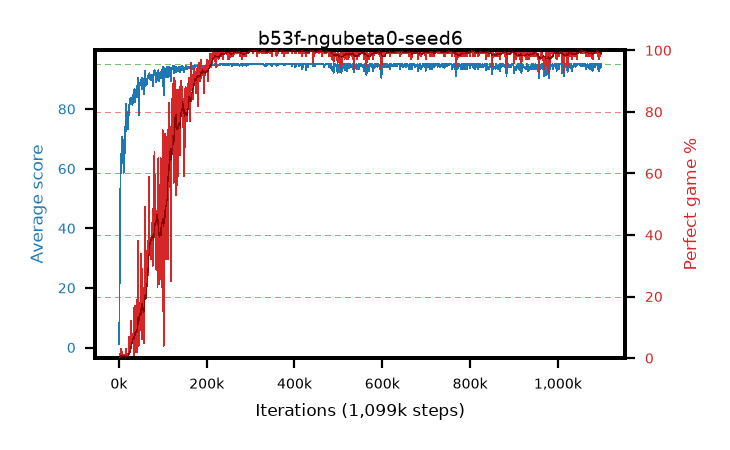
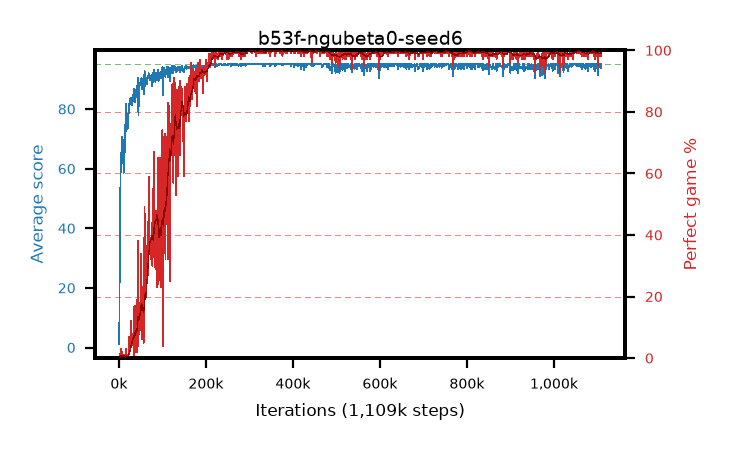
live pictures of 4 arm(s)

diff --git a/results/b53h-ngubeta0-seed8/b53h-ngubeta0-seed8.md b/results/b53h-ngubeta0-seed8/b53h-ngubeta0-seed8.md
@@ -1,6 +1,6 @@
 # b53h-ngubeta0-seed8
 
-step **1,119,000** · 1119 evals · trailing **94.46** · peak **94.92** @356,000 · sef **91.6** · best30 **99.7** @539,000
+step **1,129,000** · 1129 evals · trailing **94.57** · peak **94.92** @356,000 · sef **91.7** · best30 **99.7** @539,000
 
 ## Config
 
@@ -80,15 +80,15 @@ step **1,119,000** · 1119 evals · trailing **94.46** · peak **94.92** @356,00
 | 2000 | 50.19 | 26.7 | 2.0 | 95.0 | 51.185 | 6.0 | 0.4 |
 | 3000 | 57.71 | 37.03 | 27.0 | 95.0 | 54.481 | 2.0 | 0.4 |
 | ... | ... | ... | ... | ... | ... | ... | ... |
-| 1108000 | 94.22 | 94.13 | 17.0 | 95.0 | 191.969 | 99.0 | 0.4 |
-| 1109000 | 95.0 | 94.15 | 95.0 | 95.0 | 193.785 | 100.0 | 0.4 |
-| 1110000 | 95.0 | 94.18 | 95.0 | 95.0 | 193.781 | 100.0 | 0.4 |
-| 1111000 | 94.25 | 94.24 | 20.0 | 95.0 | 191.987 | 99.0 | 0.4 |
-| 1112000 | 95.0 | 94.26 | 95.0 | 95.0 | 193.778 | 100.0 | 0.4 |
-| 1113000 | 95.0 | 94.4 | 95.0 | 95.0 | 193.77 | 100.0 | 0.4 |
-| 1114000 | 95.0 | 94.4 | 95.0 | 95.0 | 193.786 | 100.0 | 0.4 |
-| 1115000 | 94.66 | 94.43 | 77.0 | 95.0 | 191.361 | 98.0 | 0.4 |
-| 1116000 | 95.0 | 94.43 | 95.0 | 95.0 | 193.779 | 100.0 | 0.4 |
-| 1117000 | 94.08 | 94.42 | 20.0 | 95.0 | 189.777 | 97.0 | 0.4 |
 | 1118000 | 95.0 | 94.47 | 95.0 | 95.0 | 193.774 | 100.0 | 0.4 |
 | 1119000 | 94.14 | 94.46 | 9.0 | 95.0 | 191.881 | 99.0 | 0.4 |
+| 1120000 | 92.76 | 94.39 | 17.0 | 95.0 | 188.435 | 97.0 | 0.4 |
+| 1121000 | 95.0 | 94.41 | 95.0 | 95.0 | 193.782 | 100.0 | 0.4 |
+| 1122000 | 94.23 | 94.41 | 18.0 | 95.0 | 191.957 | 99.0 | 0.4 |
+| 1123000 | 94.19 | 94.41 | 14.0 | 95.0 | 191.933 | 99.0 | 0.4 |
+| 1124000 | 95.0 | 94.46 | 95.0 | 95.0 | 193.78 | 100.0 | 0.4 |
+| 1125000 | 93.43 | 94.46 | 13.0 | 95.0 | 190.141 | 98.0 | 0.4 |
+| 1126000 | 95.0 | 94.49 | 95.0 | 95.0 | 193.777 | 100.0 | 0.4 |
+| 1127000 | 94.14 | 94.48 | 22.0 | 95.0 | 190.843 | 98.0 | 0.4 |
+| 1128000 | 94.95 | 94.52 | 90.0 | 95.0 | 192.694 | 99.0 | 0.4 |
+| 1129000 | 95.0 | 94.57 | 95.0 | 95.0 | 193.788 | 100.0 | 0.4 |

diff --git a/results/b53f-ngubeta0-seed6/b53f-ngubeta0-seed6.md b/results/b53f-ngubeta0-seed6/b53f-ngubeta0-seed6.md
@@ -1,6 +1,6 @@
 # b53f-ngubeta0-seed6
 
-step **1,099,000** · 1099 evals · trailing **94.48** · peak **94.99** @323,000 · sef **87.7** · best30 **99.8** @323,000
+step **1,109,000** · 1109 evals · trailing **94.55** · peak **94.99** @323,000 · sef **87.8** · best30 **99.8** @323,000
 
 ## Config
 
@@ -80,15 +80,15 @@ step **1,099,000** · 1099 evals · trailing **94.48** · peak **94.99** @323,00
 | 2000 | 35.17 | 18.16 | 10.0 | 67.0 | 29.965 | 0.0 | 0.4 |
 | 3000 | 47.63 | 27.98 | 1.0 | 93.0 | 42.642 | 0.0 | 0.4 |
 | ... | ... | ... | ... | ... | ... | ... | ... |
-| 1088000 | 95.0 | 94.53 | 95.0 | 95.0 | 193.793 | 100.0 | 0.4 |
-| 1089000 | 94.67 | 94.54 | 62.0 | 95.0 | 192.41 | 99.0 | 0.4 |
-| 1090000 | 95.0 | 94.54 | 95.0 | 95.0 | 193.789 | 100.0 | 0.4 |
-| 1091000 | 94.29 | 94.52 | 24.0 | 95.0 | 192.038 | 99.0 | 0.4 |
-| 1092000 | 93.47 | 94.47 | 16.0 | 95.0 | 190.18 | 98.0 | 0.4 |
-| 1093000 | 95.0 | 94.49 | 95.0 | 95.0 | 193.777 | 100.0 | 0.4 |
-| 1094000 | 92.78 | 94.47 | 14.0 | 95.0 | 188.458 | 97.0 | 0.4 |
-| 1095000 | 94.22 | 94.47 | 17.0 | 95.0 | 191.97 | 99.0 | 0.4 |
-| 1096000 | 95.0 | 94.49 | 95.0 | 95.0 | 193.788 | 100.0 | 0.4 |
-| 1097000 | 93.7 | 94.45 | 24.0 | 95.0 | 190.404 | 98.0 | 0.4 |
 | 1098000 | 95.0 | 94.45 | 95.0 | 95.0 | 193.794 | 100.0 | 0.4 |
 | 1099000 | 95.0 | 94.48 | 95.0 | 95.0 | 193.781 | 100.0 | 0.4 |
+| 1100000 | 95.0 | 94.49 | 95.0 | 95.0 | 193.78 | 100.0 | 0.4 |
+| 1101000 | 95.0 | 94.54 | 95.0 | 95.0 | 193.782 | 100.0 | 0.4 |
+| 1102000 | 91.32 | 94.41 | 19.0 | 95.0 | 184.91 | 95.0 | 0.4 |
+| 1103000 | 95.0 | 94.46 | 95.0 | 95.0 | 193.784 | 100.0 | 0.4 |
+| 1104000 | 94.2 | 94.44 | 24.0 | 95.0 | 190.91 | 98.0 | 0.4 |
+| 1105000 | 94.96 | 94.47 | 91.0 | 95.0 | 192.709 | 99.0 | 0.4 |
+| 1106000 | 95.0 | 94.47 | 95.0 | 95.0 | 193.782 | 100.0 | 0.4 |
+| 1107000 | 95.0 | 94.47 | 95.0 | 95.0 | 193.781 | 100.0 | 0.4 |
+| 1108000 | 95.0 | 94.52 | 95.0 | 95.0 | 193.783 | 100.0 | 0.4 |
+| 1109000 | 93.88 | 94.55 | 18.0 | 95.0 | 190.625 | 98.0 | 0.4 |
